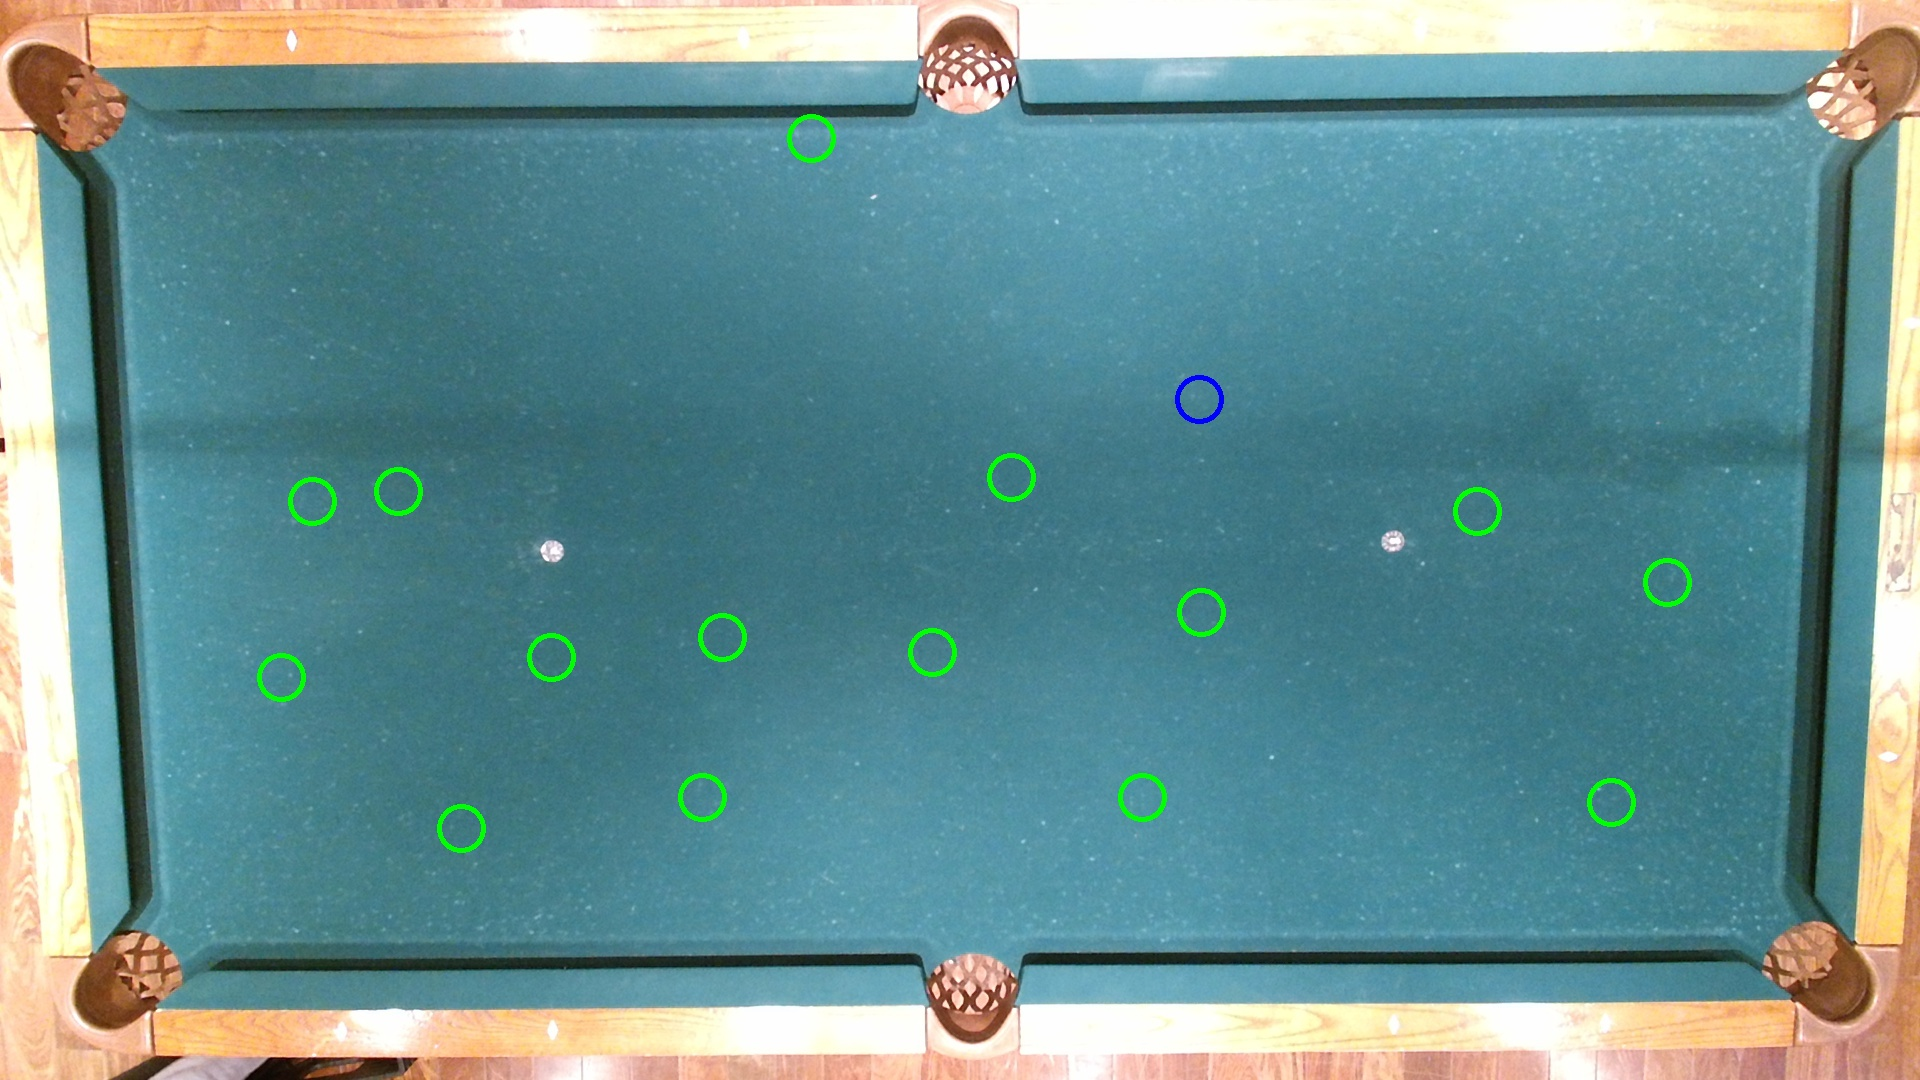
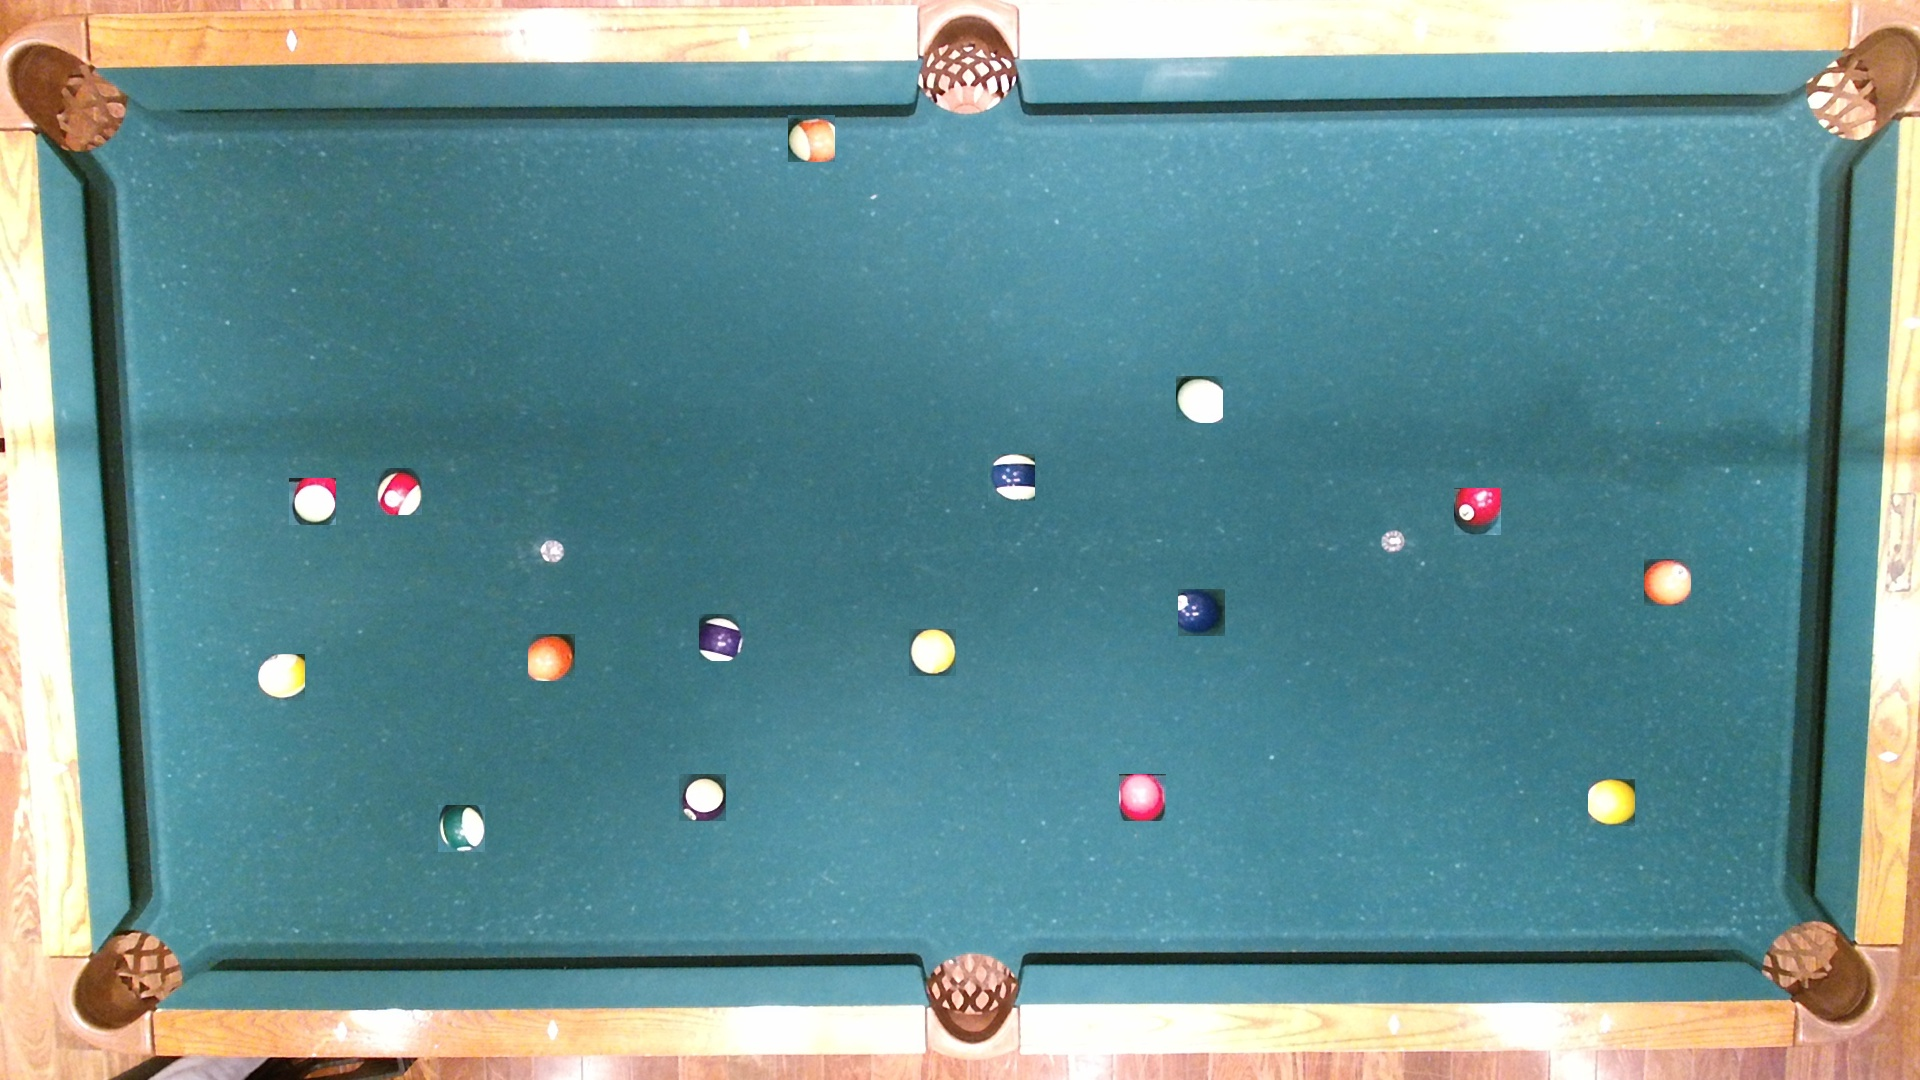
changes to visualize and cleanup

diff --git a/masked_background.py b/masked_background.py
@@ -36,14 +36,6 @@ def detect_balls(background_file_name, file_name):
 	#Detect circles
 	balls = cv2.HoughCircles(gray_frame, cv2.cv.CV_HOUGH_GRADIENT, 5, minDist=40, param1=100, param2=70, minRadius=17, maxRadius=30)
 	balls = np.round(balls[0, :]).astype("int")
-	# print("Detected balls")
-
-	# #Blob detection
-	# detector = cv2.SimpleBlobDetector()
-	# keypoints = detector.detect(gray_frame)
-	# print(keypoints)
-	# im_with_keypoints = cv2.drawKeypoints(frame, keypoints, np.array([]), (0,0,255), cv2.DRAW_MATCHES_FLAGS_DRAW_RICH_KEYPOINTS)
-	# cv2.imwrite("blobballs.jpg", im_with_keypoints)
 
 	#Display detected balls
 	for (x, y, r) in balls:
@@ -52,6 +44,7 @@ def detect_balls(background_file_name, file_name):
 	cv2.imwrite("DetectedBalls.jpg", frame)
 
 	return (oframe, masked_frame, balls)
+
 
 def detect_color(frame, balls, radius):
 
@@ -85,6 +78,7 @@ def detect_color(frame, balls, radius):
 
 	return dict_balls
 
+
 def find_white_ball(frame, balls):
 	total_rgb=[]
 	for (x, y, r) in balls:
@@ -106,11 +100,12 @@ def find_white_ball(frame, balls):
 	# print(wx,wy)
 	cv2.circle(frame, (wx, wy), r, (255, 0, 0), 4)
 	cv2.imwrite("OutputDetectWhite.jpg", frame)
-		
-	return [i[1:] for i in total_rgb]
+	
+	sort = [i[1:] for i in total_rgb]
+	return sort[::-1]
+
 
 def find_pool_table(frame2, balls, ctl, cbr):
-
 
 	pixl = cbr[0] - ctl[0]
 	pixw = cbr[1] - ctl[1]
@@ -136,8 +131,10 @@ def find_pool_table(frame2, balls, ctl, cbr):
 	# cv2.line(frame, ctr, cbr, (255, 0, 0), 4)
 	# cv2.line(frame, cbl, cbr, (255, 0, 0), 4)
 	# cv2.line(frame, cbl, ctl, (255, 0, 0), 4)
+
 	frame=frame2
 	nballs=[]
+
 	for (x,y,r) in balls:
 		if x<cbr[0] and x>ctl[0] and y<cbr[1] and y>ctl[1]:
 			nballs.append((x,y,r))
@@ -148,16 +145,14 @@ def find_pool_table(frame2, balls, ctl, cbr):
 		if i is 0:
 			color =  ( 255, 0, 0)
 		cv2.circle(frame, (x, y), r, color, 4)
-	# for (x, y, r) in shifted_coords:
+	#for (x, y, r) in shifted_coords:
 	# 	cv2.circle(frame, int(x), int(y), int(r), (0, 255, 0), 4)
 
-	cv2.imwrite("DetectedBalls2.jpg", frame)
-
-
+	#cv2.imwrite("DetectedBalls2.jpg", frame)
 	return nballs
 
-def shift(frame, balls, ctl, cbr):
 
+def shift(frame, balls, ctl, cbr):
 
 	pixl = cbr[0] - ctl[0]
 	pixw = cbr[1] - ctl[1]
@@ -183,21 +178,23 @@ def shift(frame, balls, ctl, cbr):
 	# cv2.line(frame, ctr, cbr, (255, 0, 0), 4)
 	# cv2.line(frame, cbl, cbr, (255, 0, 0), 4)
 	# cv2.line(frame, cbl, ctl, (255, 0, 0), 4)
-	cv2.imwrite("OutputDetectWhite2.jpg", frame)
+
+	#cv2.imwrite("OutputDetectWhite2.jpg", frame)
+
 	shifted_coords=[]
 	for (x,y,r) in balls:
 		if x<cbr[0] and x>ctl[0] and y<cbr[1] and y>ctl[1]:
 			shifted_coords.append(((x-ctl[0])/l,(y-ctl[1])/w, r))
+
 	# for (x, y, r) in shifted_coords:
 	# 	cv2.circle(frame, int(x), int(y), int(r), (0, 255, 0), 4)
 
-	cv2.imwrite("DetectedBalls2.jpg", frame)
-
+	#cv2.imwrite("DetectedBalls2.jpg", frame)
 
 	return shifted_coords
 
-def visualize(background, shifted_coords, ctl, cbr):
 
+def visualize(original_frame, background, original_coords, shifted_coords, ctl, cbr):
 
 	pixl = cbr[0] - ctl[0]
 	pixw = cbr[1] - ctl[1]
@@ -210,7 +207,7 @@ def visualize(background, shifted_coords, ctl, cbr):
 
 	rad = (l+w)/2
 
-	print(shifted_coords)
+	#print(shifted_coords)
 
 	for i in range(len(shifted_coords)):
 		(nx, ny, nr) = shifted_coords[i]
@@ -225,8 +222,21 @@ def visualize(background, shifted_coords, ctl, cbr):
 		x=int(x)
 		y=int(ny*w)
 		r=int(nr*rad)
-		cv2.circle(background, (x+ctl[0], y+ctl[1]), r, color, 4)
+
+		nx=original_coords[i][0]
+		ny=original_coords[i][1]
+
+		print(x,y)
+
+		current_ball = original_frame[(ny-r-1) : (ny+r+2), (nx-r-1) : (nx+r+2)]
+		#cv2.imwrite("Testing"+str(i+1)+".jpg",current_ball)
+		background[(y+ctl[1]-r-1) : (y+ctl[1]+r+2), (x+ctl[0]-r-1) : (x+ctl[0]+r+2)] = current_ball
+
+		cv2.circle(original_frame , (nx, ny), r, color, 4)
+		#cv2.circle(background, (x+ctl[0], y+ctl[1]), r, color, 4)
+	
 	cv2.imwrite("visualize.jpg", background)
+	#cv2.imwrite("test.jpg", original_frame)
 
 def main():
 	ctl = (103,103) # just have to change ctl and cbr
@@ -238,28 +248,27 @@ def main():
 	background = cv2.imread(background_file_name)
 	file_name = 'StableOutput_Color3.jpg'
 	(frame, masked_frame, balls) = detect_balls(background_file_name, file_name)
-	
+	oframe = copy.copy(frame)	
 
 	nballs = find_pool_table(frame, balls, ctl, cbr)
 
-	#print(balls)
-	#ball_colors = detect_color(frame, balls, 25)
 	nballs = find_white_ball(frame, nballs)
 	shifted_coords = shift(frame, nballs, ctl, cbr)
 
-	with open('OutputBalls.csv', 'wb') as f:
-		writer=csv.writer(f)
-		writer.writerows(nballs)
+	# with open('OutputBalls.csv', 'wb') as f:
+	# 	writer=csv.writer(f)
+	# 	writer.writerows(nballs)
 
-	with open('OutputShiftedCoords.csv', 'wb') as f:
-		writer=csv.writer(f)
-		writer.writerows(shifted_coords)
+	# with open('OutputShiftedCoords.csv', 'wb') as f:
+	# 	writer=csv.writer(f)
+	# 	writer.writerows(shifted_coords)
 
 	sc = []
 	with open('out_state.csv', 'rb') as csvfile:
 		reader = csv.reader(csvfile)
 		for row in reader:
 			sc.append(row)
-	visualize(background, sc, ctl, cbr)
+
+	visualize(oframe, background, nballs, sc, ctl, cbr)
 
 if __name__ == '__main__': main()
